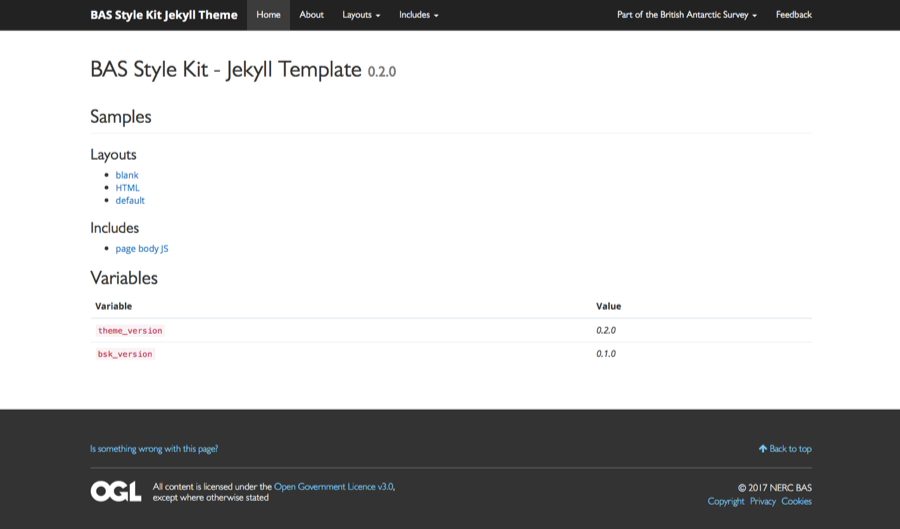
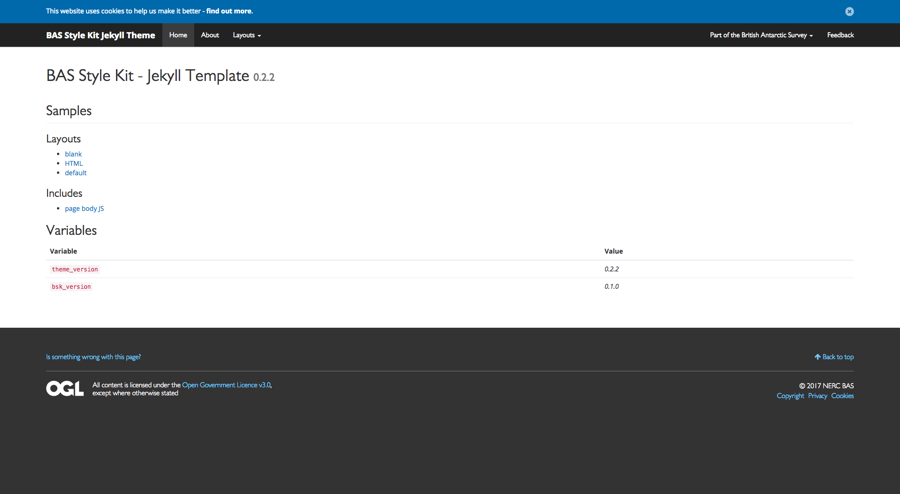
Preparing for release

diff --git a/CHANGELOG.md b/CHANGELOG.md
@@ -5,6 +5,8 @@ This project adheres to [Semantic Versioning](http://semver.org/spec/v2.0.0.html
 
 ## [Unreleased][unreleased]
 
+## 0.2.2 - 21/03/2017
+
 ### Added
 
 * Jekyll Data plugin as a theme/gem dependency, allows default config options to be set, and the use of theme data files
@@ -14,6 +16,8 @@ This project adheres to [Semantic Versioning](http://semver.org/spec/v2.0.0.html
 * Including theme config file in Gemspec to allow default config options to be set
 * Switching previous config file used for previewing the theme to an internal config file
 * Config option documentation is now consistent, and includes whether a default value is set for each option
+* Updating theme screen shot
+
 ## 0.2.1 - 21/03/2017
 
 ### Added
